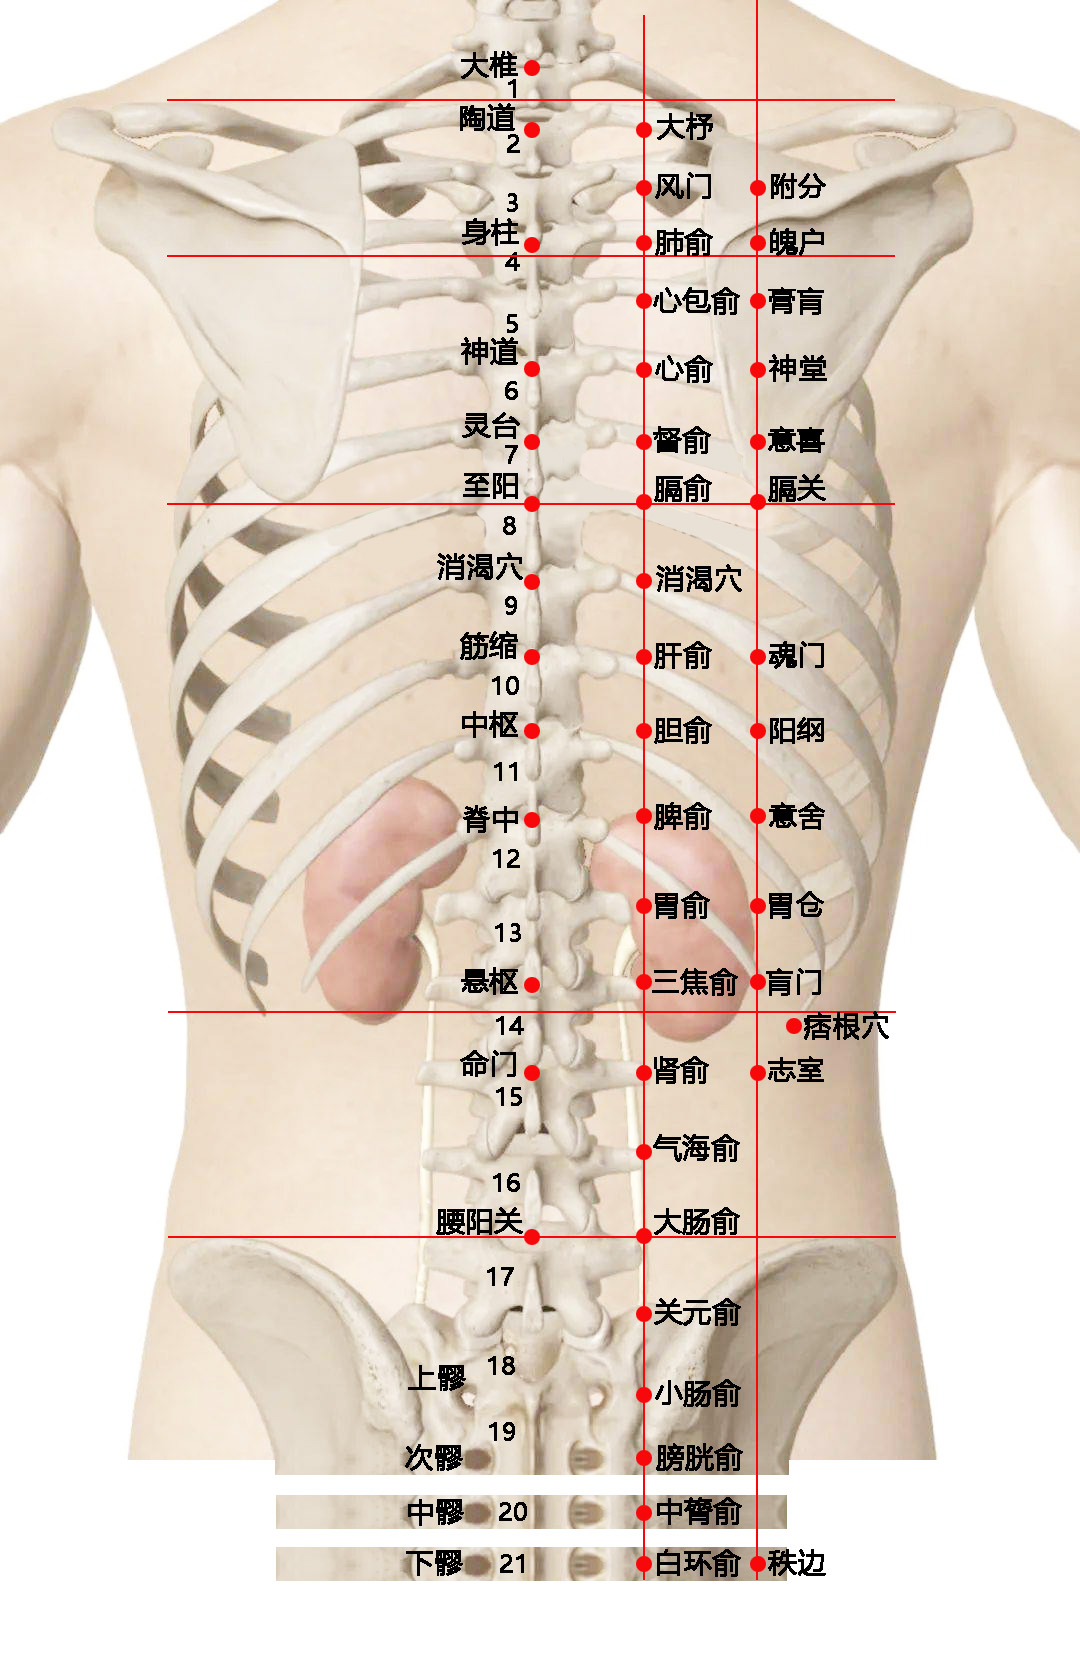
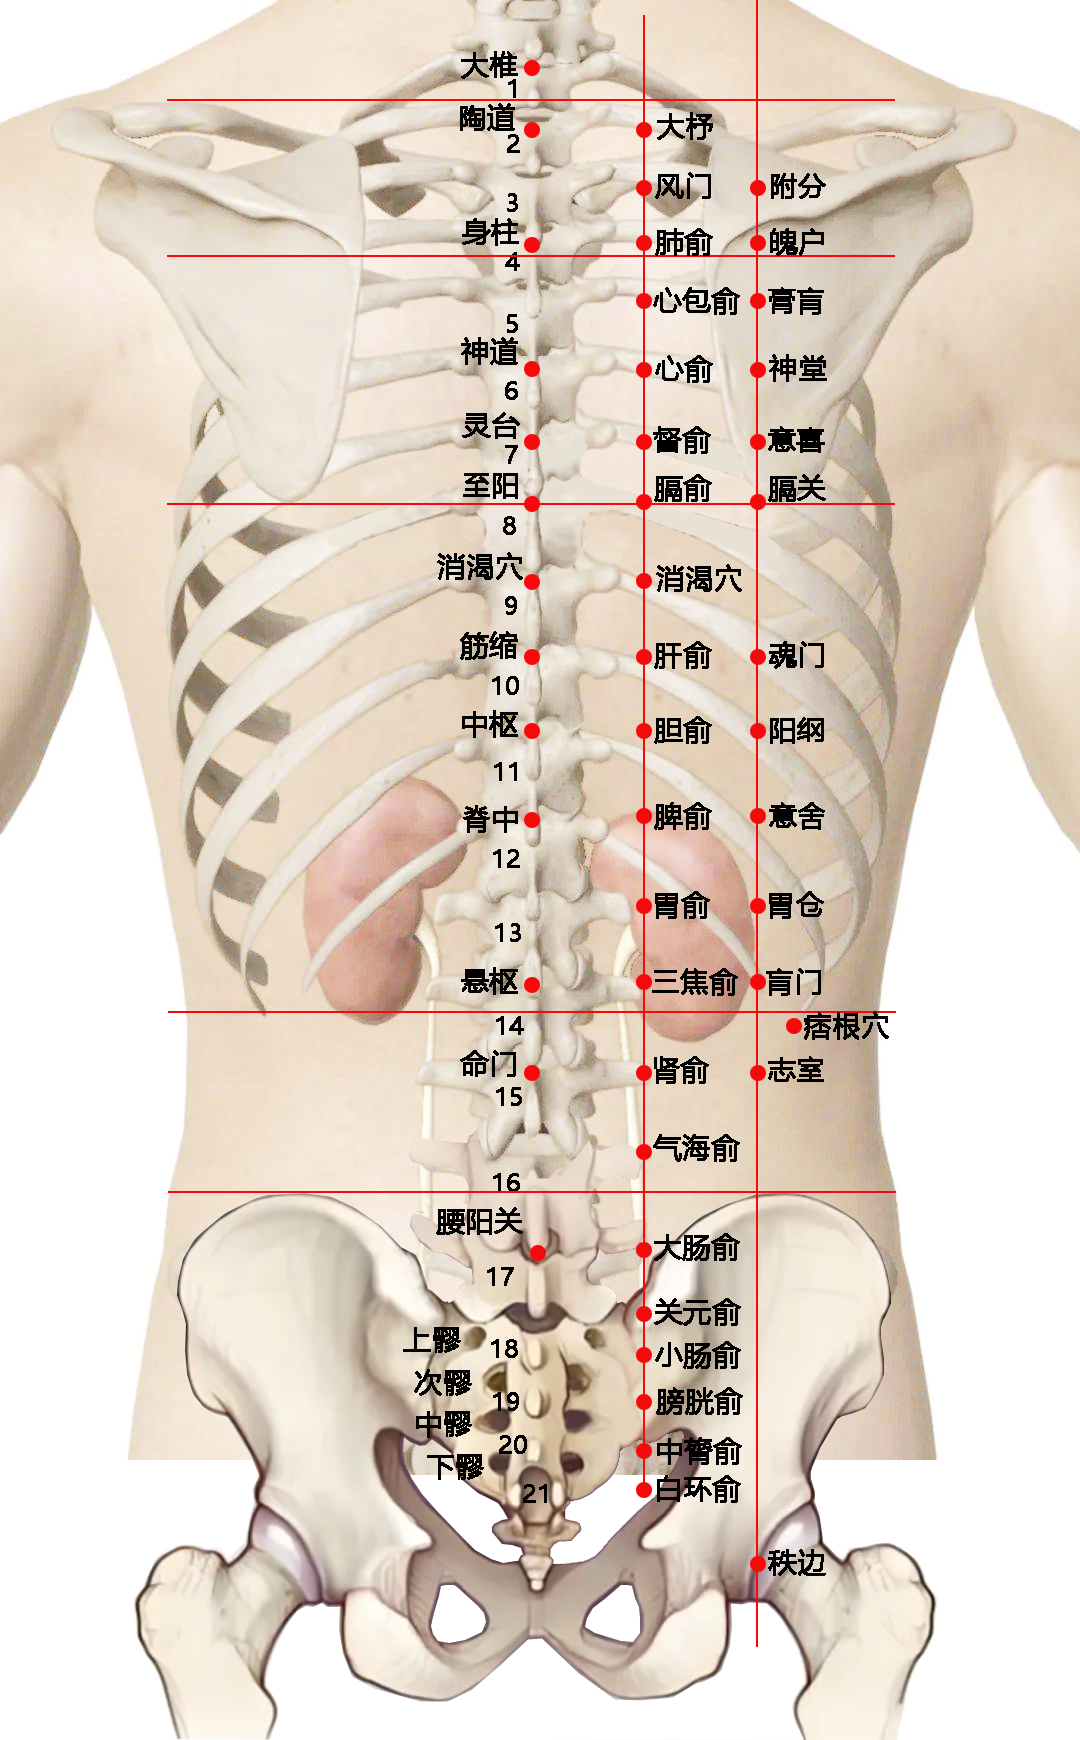
增加了膀胱经内容，写到膏肓。

diff --git a/docs/acupuncture/meridians/bladder/index.md b/docs/acupuncture/meridians/bladder/index.md
@@ -40,7 +40,13 @@
 
 所以内经云，膀胱，州都之官，水道出焉。
 
-# 膀胱经穴位
+<br>
+
+---
+
+<br>
+
+# 膀胱经穴位（头部）
 
 膀胱经有67个穴道。
 
@@ -115,6 +121,14 @@
 
 ![An image](/bladder/9安眠穴.png)
 天柱外开一寸，安眠穴。一寸针，下半寸就够了。
+
+<br>
+
+---
+
+<br>
+
+# 膀胱经寸半穴位
 
 ## 大杼（骨会）
 
@@ -327,7 +341,8 @@
 
 ## 肾俞
 
-肾俞，十四椎下。肚脐的背面就是十四椎下。肾主骨，肾藏志，肾其华在发(发光滑油亮。肝主生发。所以化疗掉发，因为化疗伤肝)，肾管耳，肾主记忆，肾主脑，肾主二便，肾主水，肾藏志。这些问题，都可以用肾俞。
+![An image](/bladder/15肾俞到白环俞.png)
+肾俞，十四椎下。肚脐的背面就是十四椎下。肾主骨，肾藏志，肾其华在发(发光滑油亮。肝主生发。所以化疗当场掉发，因为化疗伤肝)，肾管耳，肾主记忆，肾主脑，肾主二便，肾主水。这些问题，都可以用肾俞。
 
 两个脚一起肿，是肾的问题；如果只有脚踝关节肿，是心脏的问题。下消也治肾。
 
@@ -339,6 +354,8 @@
 
 ::: warning 单椎痛的治疗
 有时候感觉到腰痛，一按，就在十三椎那一点最痛，可是这个人没有其它内科毛病。那就可以知道，他的病就只是这一个关节痛而已。就可以针十三椎两侧的三焦俞，两边一起下，就治疗那一椎的痛。也可同时下三焦经的子穴。子穴一下，十三椎就开始发热。下三焦俞的意思是，告诉身体系统把气血送到十三椎这里来，下子穴的意思是，让身体加速送气血来。这是单椎痛的治法。
+
+再比如一个人脾脏很好，四肢也没有身重，关节也没有痛，就只是督脉第十一椎痛。这时可以下左右脾俞，还可以下脾经的子穴商丘，针一下到子穴，第十一椎就开始热，这是我们的导引法。导引就是有一个目标，一下到脾俞，就是告诉身体，我要气血集中在这个点上，这时候再下子穴，气血又流回来，回到第十一椎。
 :::
 
 ::: warning 十四椎以下就可以下直针了
@@ -346,20 +363,68 @@
 :::
 
 ## 气海俞
-气海俞，十五椎下。
-大肠俞，十六椎下。
-关元俞，十七椎下。
-小肠俞，十八椎下。小肠俞和督脉的中间，是上髎。统治所有腰痛。灸上髎助孕。全身最小的穴道，只有绿豆大，要下到骨洞里，大约五分深，加上外面皮肉，所以需要一寸半的针。治妇科病。
-膀胱俞，十九椎下。膀胱俞和督脉的中间，是次髎。治妇科病。
-中膂俞，二十椎下。中膂俞和督脉的中间，是中髎。
-白环俞，二十一椎下。尾椎骨凸起的那一点就是二十一椎，二十一椎外开一寸半，就是白环俞。白环俞和督脉的中间，是下髎。治大便下血问题。
+气海俞，十五椎下。近取穴治腰痛、痔疮。
 
-八髎，是全身上下最小的穴道。昨床治症都差不多，都属于近取穴。如果要区分，就是下髎多治大便下血，上髎多治妇人不孕。
+::: warning 近取穴和远取穴
+在患病器官的周围选择穴道，叫近取穴。在四肢上找穴道，就是远取穴。
+:::
+
+## 大肠俞关元俞
+
+大肠俞，十六椎下。近取穴治腰痛；大肠的问题如便秘、下利。
+关元俞，十七椎下。近取穴治腰痛；妇科病，如子宫肿瘤等。
+
+## 小肠俞、上髎
+
+![An image](/bladder/17八髎和会阳.png)
+小肠俞，十八椎下。
+
+小肠俞和督脉的中间，是上髎。统治所有腰痛，不管腰痛在哪个部位。灸上髎助孕。阴部的治症，也可用上髎。上髎是全身最小的穴道，只有绿豆大，要下到骨洞里大约五分深，这才是穴位，加上外面皮肉，所以需要一寸半的针。治妇科病。
+
+## 膀胱俞、次髎
+
+膀胱俞，十九椎下。
+
+膀胱俞和督脉的中间，是次髎。治妇科病。
+
+## 中膂俞、中髎
+
+中膂俞，二十椎下。
+
+中膂俞和督脉的中间，是中髎。
+
+## 白环俞、下髎
+
+白环俞，二十一椎下。尾椎骨凸起的那一点就是二十一椎，二十一椎外开一寸半，就是白环俞。
+
+白环俞和督脉的中间，是下髎。治大便下血问题。
+
+八髎，是全身上下最小的穴道。临床治症都差不多，都属于近取穴。如果要区分，就是下髎多治大便下血，上髎多治妇人不孕。
+
+## 会阳
+
 会阳，二十一椎下是腰俞，下面是尾椎骨，尾椎骨中点外开一寸，是会阳。用得不多。
 
+<br>
+
+---
+
+<br>
+
+# 膀胱经的三寸穴
+
 三寸穴都是寸半穴的加强穴。
+
+## 附分
+
 附分，二椎下外开三寸。手足太阳会穴。
+
+## 魄户
+
 魄户，三椎下外开三寸。身柱、肺俞、魄户。
+
+## **膏肓**
+
 膏肓，整个膀胱经最重要的穴道。五椎三分之一外开三寸，其实就是四椎下顺着胁骨外开三寸。无所不疗。正常情况下，膏肓穴藏在肩胛骨里，要抱住枕头，打开肩胛骨，膏肓穴就会露在肩胛骨边上。工作非常紧张非常卖力，如特警人员，膏肓穴会痛，像个螺丝拧着痛，唯有一个治法，刺络拨罐，立即好。灸膏肓穴百壮至五百壮，无所不疗。灸完后胸腔中气会很旺，嘴唇干嗓子哑，一定要再灸中极石门阴交关元气海等，把气往腹中导引，然后再灸足三里，把气往脚上导引。这样全身的气就行通了。我们所有的治疗都是为了让热汽走到脚上去，不让脚上结冰堵塞通道。
 神堂，五椎下外开三寸。心俞、神堂。
 意喜，督俞外开一寸半。
